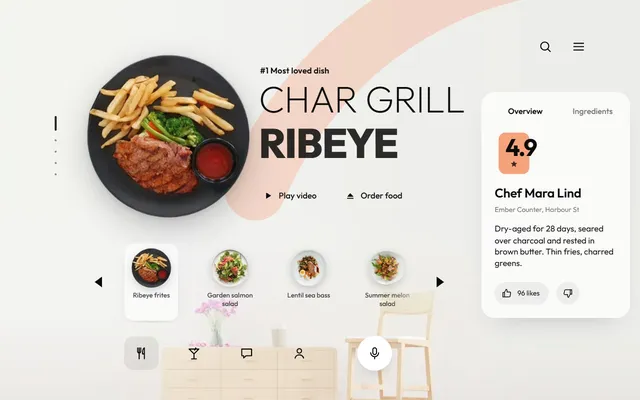
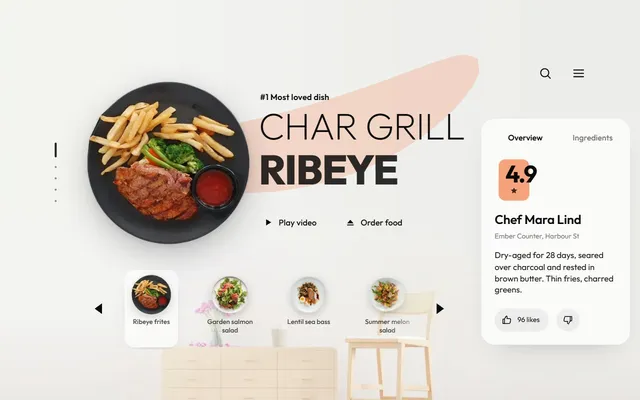
dish-orbit-carousel: page scroll drives the dishes; bottom nav removed
The section pins (sticky) and each stretch of scroll brings the next dish,
snapping one at a time, endless both ways. Buttons, keys and swipes move the
scroll with them. The nav icons and mic are gone and the canvas re-fits the
freed space; the phone layout fits one screen.

diff --git a/components/dish-orbit-carousel/dish-orbit-carousel.tsx b/components/dish-orbit-carousel/dish-orbit-carousel.tsx
@@ -2,6 +2,9 @@
 
 import { useEffect, useLayoutEffect, useRef, useState } from "react"
 import { gsap } from "gsap"
+import { ScrollTrigger } from "gsap/ScrollTrigger"
+
+gsap.registerPlugin(ScrollTrigger)
 
 /*
  * Dish Orbit Carousel: a smart-kitchen-display menu. The plated dish sits on
@@ -9,8 +12,9 @@ import { gsap } from "gsap"
  * next plate swings in from the other side. The two-weight title wipes out and
  * back in (thin line from the right, heavy line from the left), the chef card
  * and its coloured rating badge cross-fade, and a pastel arc behind the scene
- * turns and takes the dish's colour. Arrows, thumbnails, the side pager,
- * arrow keys and swipes all drive it, endlessly in both directions.
+ * turns and takes the dish's colour. The page scroll drives it: the section
+ * pins and each stretch of scroll brings the next dish, endlessly both ways.
+ * Arrows, thumbnails, the side pager, arrow keys and swipes jump too.
  */
 
 export type Dish = {
@@ -42,7 +46,8 @@ export type DishOrbitCarouselProps = {
   height?: string
   /** Optional photo behind the display, e.g. a kitchen wall. Washed by the theme background. */
   backdrop?: string
-  initialIndex?: number
+  /** Scroll on forever: past the last dish comes the first again, and up from the first, the last. */
+  loop?: boolean
   /** Embedded display face (Outfit, OFL). Pass null to use the host's font. */
   fontSrc?: string | null
   onPlay?: (dish: Dish, index: number) => void
@@ -62,6 +67,16 @@ export function stepDirection(from: number, to: number, n: number): 1 | -1 {
   if (n <= 0) return 1
   const fwd = (((to - from) % n) + n) % n
   return fwd <= n - fwd ? 1 : -1
+}
+
+/** Scroll stretches in the section: one per dish change, plus one back round to the first when looping. */
+export function scrollSteps(n: number, loop: boolean): number {
+  return Math.max(0, loop ? n : n - 1)
+}
+
+/** The scroll stretch for dish `i` nearest the current one (when looping, dish 0 is also the last stretch). */
+export function segmentFor(i: number, current: number, n: number, loop: boolean): number {
+  return loop && i === 0 && current > n / 2 ? n : i
 }
 
 /** First thumbnail shown in the strip window, keeping the current one in view. */
@@ -107,6 +122,7 @@ export const ARC_SWEEP = [38, 146]
 const ORBIT_X = 299
 const ORBIT_Y = -450
 const ORBIT_R = 650
+const SCROLL_PER_DISH = 0.7 // stage heights of scroll per dish
 const SWING = 50 // degrees the plate travels round the orbit's pivot
 const ITEM = 118 // thumbnail pitch in canvas px
 const VISIBLE = 4
@@ -114,7 +130,8 @@ const VISIBLE = 4
 const FONT = "dsh-face"
 
 const CSS =
-  ".dsh-root{position:relative;overflow:hidden;width:100%;background:var(--color-background);color:var(--color-foreground);" +
+  ".dsh-trk{position:relative}" +
+  ".dsh-root{position:sticky;top:0;overflow:hidden;width:100%;background:var(--color-background);color:var(--color-foreground);" +
   "font-family:" + FONT + ",ui-sans-serif,system-ui,sans-serif;container-type:inline-size;-webkit-tap-highlight-color:transparent}" +
   ".dsh-root *{box-sizing:border-box}" +
   ".dsh-bd{position:absolute;inset:0;width:100%;height:100%;max-width:none;object-fit:cover;pointer-events:none}" +
@@ -122,8 +139,8 @@ const CSS =
   // multiply by the background: a no-op on a light theme, lights-off on a dark one
   ".dsh-dim{position:absolute;inset:0;background:var(--color-background);mix-blend-mode:multiply;opacity:.72;pointer-events:none}" +
   ".dsh-root:focus-visible{outline:2px solid var(--color-primary);outline-offset:-4px}" +
-  ".dsh-canvas{position:absolute;left:50%;top:50%;width:960px;height:600px;transform:translate(-50%,-50%) scale(var(--dsh-s,1));transform-origin:50% 50%}" +
-  ".dsh-arc{position:absolute;left:0;top:0;width:960px;height:600px;overflow:visible;pointer-events:none}" +
+  ".dsh-canvas{position:absolute;left:50%;top:50%;width:960px;height:520px;transform:translate(-50%,-50%) scale(var(--dsh-s,1));transform-origin:50% 50%}" +
+  ".dsh-arc{position:absolute;left:0;top:0;width:960px;height:520px;overflow:visible;pointer-events:none}" +
   ".dsh-btn{appearance:none;border:0;background:none;color:inherit;font:inherit;padding:0;margin:0;cursor:pointer}" +
   ".dsh-btn:focus-visible{outline:2px solid var(--color-primary);outline-offset:3px;border-radius:10px}" +
   ".dsh-ico{width:22px;height:22px;fill:none;stroke:currentColor;stroke-width:1.7;stroke-linecap:round;stroke-linejoin:round}" +
@@ -184,32 +201,22 @@ const CSS =
   ".dsh-th img{width:56px;height:56px;max-width:none;object-fit:contain;filter:drop-shadow(0 4px 6px rgba(0,0,0,.18));transition:transform .45s}" +
   ".dsh-th .dsh-btn[aria-current] img{transform:scale(1.06)}" +
   ".dsh-th span{font-size:10px;line-height:1.25;text-align:center;font-weight:500;color:color-mix(in oklab,var(--color-foreground) 78%,transparent);max-width:78px}" +
-  ".dsh-nav{position:absolute;left:186px;top:504px;display:flex;align-items:center;gap:27px}" +
-  ".dsh-nav .dsh-btn{width:52px;height:50px;display:grid;place-items:center;border-radius:14px;transition:background .3s}" +
-  ".dsh-nav .dsh-btn[aria-current]{background:color-mix(in oklab,var(--color-foreground) 7%,transparent)}" +
-  ".dsh-mic.dsh-btn{width:52px;height:52px;border-radius:99px;margin-left:34px;background:var(--color-background);" +
-  "box-shadow:0 10px 24px -10px rgba(0,0,0,.3);transition:box-shadow .3s,transform .3s}" +
-  ".dsh-mic[aria-pressed=true]{box-shadow:0 0 0 6px color-mix(in oklab,var(--color-primary) 18%,transparent),0 10px 24px -10px rgba(0,0,0,.3)}" +
-  ".dsh-mic[aria-pressed=true] .dsh-ico{animation:dsh-pulse 1.2s ease-in-out infinite}" +
-  "@keyframes dsh-pulse{50%{transform:scale(.82)}}" +
   ".dsh-sr{position:absolute;width:1px;height:1px;overflow:hidden;clip:rect(0 0 0 0);white-space:nowrap}" +
   "@container (max-width:639px){" +
-  ".dsh-canvas{position:relative;left:auto;top:auto;width:100%;height:auto;transform:none;display:flex;flex-direction:column;align-items:center;padding:18px 16px 22px}" +
+  ".dsh-canvas{position:relative;left:auto;top:auto;width:100%;height:auto;transform:none;display:flex;flex-direction:column;align-items:center;padding:14px 16px 18px}" +
   ".dsh-arc{width:200%;height:auto;left:-60%;top:-30px}" +
   ".dsh-top{position:relative;left:auto;top:auto;align-self:flex-end}" +
   ".dsh-pager{left:14px;top:150px}" +
-  ".dsh-plates{position:relative;left:auto;top:auto;width:min(62vw,250px);height:min(62vw,250px);margin-top:4px}" +
+  ".dsh-plates{position:relative;left:auto;top:auto;width:min(52vw,32svh);height:min(52vw,32svh);margin-top:0}" +
   ".dsh-orbit>img{width:100%;height:100%}" +
-  ".dsh-head{position:relative;left:auto;top:auto;width:100%;height:138px;margin-top:18px}" +
-  ".dsh-hd{text-align:center}" +
+  ".dsh-head{position:relative;left:auto;top:auto;width:100%;height:132px;margin-top:10px}" +
+  ".dsh-hd{text-align:center;transform:scale(.78);transform-origin:50% 0}" +
   ".dsh-acts{position:relative;left:auto;top:auto;margin-top:4px}" +
-  ".dsh-card{position:relative;left:auto;top:auto;width:100%;max-width:420px;margin-top:14px;order:2}" +
-  ".dsh-strip{position:relative;left:auto;top:auto;width:100%;max-width:420px;margin-top:14px;justify-content:center;order:1}" +
-  ".dsh-win{width:min(" + ITEM * 3 + "px,calc(100% - 76px))}" +
-  ".dsh-nav{position:relative;left:auto;top:auto;gap:6px;margin-top:16px;order:3}" +
-  ".dsh-mic.dsh-btn{margin-left:10px}" +
+  ".dsh-card{position:relative;left:auto;top:auto;width:100%;max-width:420px;margin-top:12px}" +
+  // phone: the pinned stage has to fit one screen; the pager, swipes and scroll cover the strip
+  ".dsh-strip{display:none}" +
   "}" +
-  "@media (prefers-reduced-motion:reduce){.dsh-track,.dsh-dot,.dsh-dot i,.dsh-th .dsh-btn,.dsh-th img,.dsh-like,.dsh-mic.dsh-btn{transition:none}.dsh-mic[aria-pressed=true] .dsh-ico{animation:none}}"
+  "@media (prefers-reduced-motion:reduce){.dsh-track,.dsh-dot,.dsh-dot i,.dsh-th .dsh-btn,.dsh-th img,.dsh-like{transition:none}}"
 
 const HIDE_1 = "inset(0% 0% 0% 100%)" // thin line: wipes in from the right
 const HIDE_2 = "inset(0% 100% 0% 0%)" // heavy line: wipes in from the left
@@ -222,25 +229,13 @@ const Icon = {
   order: <svg className="dsh-ico dsh-fill" viewBox="0 0 24 24" aria-hidden="true"><path d="M12 5 3 15h18zM3 18h18v2.5H3z" /></svg>,
   up: <svg className="dsh-ico" viewBox="0 0 24 24" aria-hidden="true"><path d="M7 10v10H3.5V10zM7 10l4-7c1.6 0 2.6 1.2 2.2 2.8L12.6 9H19a2 2 0 0 1 2 2.3l-1.3 7A2 2 0 0 1 17.7 20H7" /></svg>,
   down: <svg className="dsh-ico" viewBox="0 0 24 24" aria-hidden="true"><path d="M17 14V4h3.5v10zM17 14l-4 7c-1.6 0-2.6-1.2-2.2-2.8l.6-3.2H5a2 2 0 0 1-2-2.3l1.3-7A2 2 0 0 1 6.3 4H17" /></svg>,
-  cutlery: <svg className="dsh-ico" viewBox="0 0 24 24" aria-hidden="true"><path d="M6 3v6a2.5 2.5 0 0 0 5 0V3M8.5 3v18M17 21V3c-2.2 1.4-3 4-3 7v3h3" /></svg>,
-  drink: <svg className="dsh-ico" viewBox="0 0 24 24" aria-hidden="true"><path d="M4 5h16l-8 8zM12 13v8M8 21h8M15 3l-2 4" /></svg>,
-  chat: <svg className="dsh-ico" viewBox="0 0 24 24" aria-hidden="true"><path d="M4 5h16v11h-9l-4 3.5V16H4z" /></svg>,
-  user: <svg className="dsh-ico" viewBox="0 0 24 24" aria-hidden="true"><circle cx="12" cy="8" r="3.6" /><path d="M5 20c.8-3.6 3.6-5.5 7-5.5s6.2 1.9 7 5.5" /></svg>,
-  mic: <svg className="dsh-ico" viewBox="0 0 24 24" aria-hidden="true"><rect x="9" y="3" width="6" height="11" rx="3" /><path d="M5.5 11a6.5 6.5 0 0 0 13 0M12 17.5V21" /></svg>,
 }
-
-const NAV = [
-  { label: "Menu", icon: Icon.cutlery },
-  { label: "Drinks", icon: Icon.drink },
-  { label: "Messages", icon: Icon.chat },
-  { label: "Profile", icon: Icon.user },
-]
 
 export function DishOrbitCarousel({
   dishes,
   height = "100svh",
   backdrop,
-  initialIndex = 0,
+  loop = true,
   fontSrc = FONT_DATA,
   onPlay,
   onOrder,
@@ -248,14 +243,18 @@ export function DishOrbitCarousel({
   className,
 }: DishOrbitCarouselProps) {
   const n = dishes.length
-  const [index, setIndex] = useState(() => wrapIndex(initialIndex, n))
+  const [index, setIndex] = useState(0)
   const [tab, setTab] = useState("overview")
   const [liked, setLiked] = useState({} as Record<number, boolean>)
   const [disliked, setDisliked] = useState({} as Record<number, boolean>)
-  const [nav, setNav] = useState(0)
-  const [listening, setListening] = useState(false)
 
+  const trackRef = useRef(null as HTMLDivElement | null)
   const rootRef = useRef(null as HTMLDivElement | null)
+  const stRef = useRef(null as ScrollTrigger | null)
+  const segRef = useRef(0)
+  const indexRef = useRef(0)
+  const onChangeRef = useRef(onChange)
+  onChangeRef.current = onChange
   const orbits = useRef([] as (HTMLDivElement | null)[])
   const heads = useRef([] as (HTMLDivElement | null)[])
   const bodies = useRef([] as (HTMLDivElement | null)[])
@@ -267,14 +266,14 @@ export function DishOrbitCarousel({
   const reducedRef = useRef(false)
   const swipe = useRef(null as { x: number; y: number } | null)
 
-  // Fit the 960 x 600 design canvas to the root. Measured on resize only.
+  // Fit the 960 x 520 design canvas to the root. Measured on resize only.
   useLayoutEffect(() => {
     const el = rootRef.current
     if (!el) return
     const fit = () => {
       const w = el.clientWidth
       const h = el.clientHeight
-      el.style.setProperty("--dsh-s", String(Math.min(w / 960, h / 600, 1.6)))
+      el.style.setProperty("--dsh-s", String(Math.min(w / 960, h / 520, 1.6)))
     }
     fit()
     const ro = new ResizeObserver(fit)
@@ -356,13 +355,75 @@ export function DishOrbitCarousel({
 
   useEffect(() => () => { tlRef.current?.kill() }, [])
 
+  const select = (next: number, dir: 1 | -1) => {
+    if (next === indexRef.current) return
+    dirRef.current = dir
+    indexRef.current = next
+    setIndex(next)
+    onChangeRef.current?.(next)
+  }
+
+  // The page scroll drives the dish: the stage pins, one stretch of scroll per dish, snapping between them.
+  const steps = scrollSteps(n, loop)
+  useEffect(() => {
+    const track = trackRef.current
+    if (!track || steps < 1) return
+    const trigger = ScrollTrigger.create({
+      trigger: track,
+      start: "top top",
+      end: "bottom bottom",
+      snap: { snapTo: 1 / steps, duration: { min: 0.3, max: 0.8 }, delay: 0.08, ease: "power2.inOut" },
+      onUpdate: (self) => {
+        // Looping: the last stretch shows the first dish, so jump back to the top unseen.
+        if (loop && self.progress >= 1 && self.direction > 0) {
+          segRef.current = 0
+          self.scroll(self.start + 1)
+          select(0, 1)
+          return
+        }
+        const seg = Math.round(self.progress * steps)
+        if (seg === segRef.current) return
+        const dir = seg > segRef.current ? 1 : -1
+        segRef.current = seg
+        select(wrapIndex(seg, n), dir)
+      },
+    })
+    // At the very top no scroll is left to fire onUpdate, so scrolling up there wraps round to the last dish.
+    // Deferred a frame so the browser's own wheel scroll has landed first.
+    let raf = 0
+    const onWheel = (e: WheelEvent) => {
+      const y = trigger.scroll()
+      if (!loop || e.deltaY >= 0 || y < trigger.start - 1 || y > trigger.start + 1) return
+      cancelAnimationFrame(raf)
+      raf = requestAnimationFrame(() => {
+        segRef.current = n - 1
+        trigger.scroll(trigger.start + ((trigger.end - trigger.start) * (n - 1)) / steps)
+        select(n - 1, -1)
+      })
+    }
+    window.addEventListener("wheel", onWheel, { passive: true })
+    stRef.current = trigger
+    return () => {
+      cancelAnimationFrame(raf)
+      window.removeEventListener("wheel", onWheel)
+      trigger.kill()
+      stRef.current = null
+    }
+  }, [steps, loop, n])
+
+  // Buttons, keys and swipes jump to a dish and move the scroll to its stretch, so the two stay in step.
   const go = (to: number, dir?: 1 | -1) => {
     if (n < 2) return
     const next = wrapIndex(to, n)
     if (next === index) return
-    dirRef.current = dir ?? stepDirection(index, next, n)
-    setIndex(next)
-    onChange?.(next)
+    const st = stRef.current
+    const y = st ? st.scroll() : 0
+    if (st && y >= st.start - 1 && y <= st.end + 1) {
+      const seg = segmentFor(next, segRef.current, n, loop)
+      segRef.current = seg
+      st.scroll(st.start + ((st.end - st.start) * seg) / steps)
+    }
+    select(next, dir ?? stepDirection(index, next, n))
   }
   const step = (d: 1 | -1) => go(index + d, d)
 
@@ -383,10 +444,11 @@ export function DishOrbitCarousel({
   const dish = dishes[index]
 
   return (
+    <div ref={trackRef} className={"dsh-trk" + (className ? " " + className : "")} style={{ height: "calc(" + height + " * " + (1 + steps * SCROLL_PER_DISH) + ")" }}>
     <div
       ref={rootRef}
-      className={"dsh-root" + (className ? " " + className : "")}
-      style={{ height, minHeight: "fit-content" }}
+      className="dsh-root"
+      style={{ height }}
       role="region"
       aria-roledescription="carousel"
       aria-label="Dishes"
@@ -401,7 +463,7 @@ export function DishOrbitCarousel({
       {backdrop ? <div className="dsh-wash" /> : null}
 
       <div className="dsh-canvas">
-        <svg className="dsh-arc" viewBox="0 0 960 600" aria-hidden="true">
+        <svg className="dsh-arc" viewBox="0 0 960 520" aria-hidden="true">
           <path ref={arcRef} style={{ opacity: 0.34 }} />
         </svg>
 
@@ -504,18 +566,9 @@ export function DishOrbitCarousel({
           </button>
         </div>
 
-        <nav className="dsh-nav" aria-label="Kitchen display">
-          {NAV.map((x, i) => (
-            <button key={x.label} type="button" className="dsh-btn" aria-label={x.label} aria-current={nav === i ? "page" : undefined} onClick={() => setNav(i)}>
-              {x.icon}
-            </button>
-          ))}
-          <button type="button" className="dsh-btn dsh-mic" aria-label="Voice assistant" aria-pressed={listening} onClick={() => setListening((v) => !v)}>
-            {Icon.mic}
-          </button>
-        </nav>
       </div>
       <p className="dsh-sr" aria-live="polite">{dish ? "Dish " + (index + 1) + " of " + n + ": " + dish.title + " " + dish.subtitle : ""}</p>
+    </div>
     </div>
   )
 }

diff --git a/components/dish-orbit-carousel/README.md b/components/dish-orbit-carousel/README.md
@@ -5,12 +5,15 @@ two-weight name, with a chef card and a thumbnail strip. Changing dish swings
 the plate out over the top on a wide orbit while the next plate swings in from
 the other side. The thin title line wipes out to the right and the heavy line
 to the left, then the next name wipes back in. The chef card and its coloured
-rating badge cross-fade, and a pastel arc behind the scene sways and takes the
-new dish's colour.
+rating badge cross-fade, and a pastel band along the plates' orbit stretches
+between the two plates, then settles and takes the new dish's colour.
 
-The arrows, the thumbnails, the side pager, the arrow keys and a sideways
-swipe on the plate all drive it, endlessly in both directions. Jumping from a
-thumbnail swings the short way round. Nothing plays on its own.
+The page scroll drives it. The section pins, and each stretch of scroll brings
+the next dish, snapping one at a time. With `loop` on (the default) it runs
+forever both ways: past the last dish comes the first, and scrolling up from
+the first brings the last. The arrows, the thumbnails, the side pager, the
+arrow keys and a sideways swipe on the plate jump too, and move the scroll
+with them. Nothing plays on its own.
 
 ```tsx
 import DishOrbitCarousel from "@/components/ui/dish-orbit-carousel"
@@ -42,23 +45,26 @@ type Dish = {
 | Prop | Default | |
 |---|---|---|
 | `dishes` | | The menu. |
-| `height` | `"100svh"` | Root height. Use a definite length; percentages collapse on a host page. |
+| `height` | `"100svh"` | Height of the pinned stage. Use a definite length; percentages collapse on a host page. The section is this tall plus 0.7 of it per dish of scroll. |
 | `backdrop` | none | A photo behind the display, such as a kitchen wall. The theme background washes it, so it reads as daylight on a light theme and lights-off on a dark one. |
-| `initialIndex` | `0` | |
+| `loop` | `true` | Scroll on forever in both directions. |
 | `fontSrc` | embedded Outfit | Pass `null` to use the host's font. |
 | `onPlay`, `onOrder` | | The "Play video" and "Order food" buttons. |
 | `onChange` | | Called with the new index. |
 
-The layout is a 960 × 600 display canvas, scaled to fit the root. Below a 640 px
-container width it restacks into one column: plate, title, strip, card, nav.
+The layout is a 960 × 520 display canvas, scaled to fit the stage. Below a 640 px
+container width it restacks into one column (plate, title, card) sized to fit
+one phone screen; the strip hides there, and the pager, swipes and scroll cover it.
 Title lines shrink to fit, so long names don't run into the card.
 
-Likes, the dislike, the card tabs, the bottom nav and the microphone toggle
-keep their own state. Wire `onPlay`/`onOrder` for the rest.
+Likes, the dislike and the card tabs keep their own state. Wire `onPlay`/`onOrder` for the rest.
 
 Reduced motion: the swap is instant and the CSS transitions are off.
 
-**Dependency: `gsap`** (declared in the root `package.json`).
+**Dependency: `gsap`** with its `ScrollTrigger` plugin, which pins nothing itself:
+the stage is `position: sticky`, and ScrollTrigger reads the progress and snaps.
+
+`gsap` is declared in the root `package.json`.
 
 **Font:** Outfit by the Outfit Project Authors, SIL Open Font License 1.1,
 embedded as a Basic Latin subset (about 19 KB).
